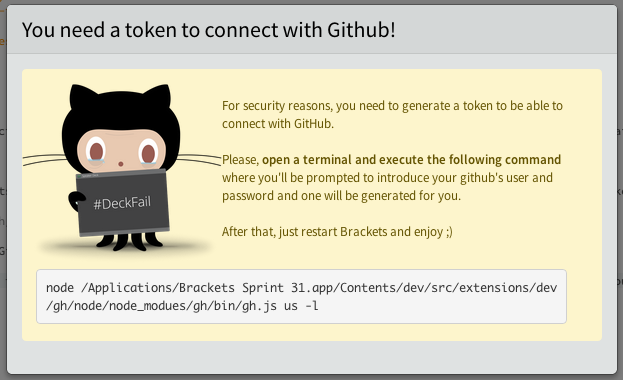
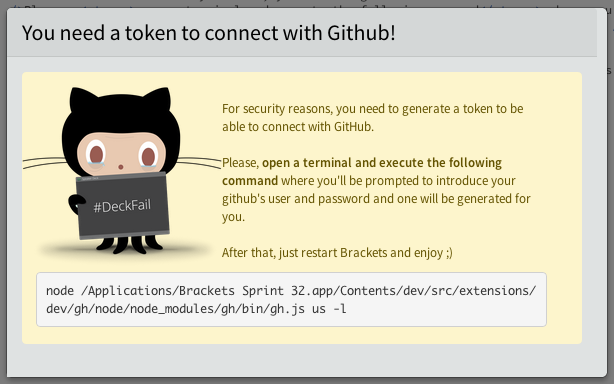
Fix command typo #13

diff --git a/htmlContent/error-token-not-found.html b/htmlContent/error-token-not-found.html
@@ -13,7 +13,7 @@
             <div style="margin-top: 20px;">
                 For security reasons, you need to generate a token to be able to connect with GitHub.<br /><br />Please, <strong>open a terminal and execute the following command</strong> where you'll be prompted to introduce your github's user and password and one will be generated for you.<br /><br />After that, just restart Brackets and enjoy ;)
             </div>
-            <pre style="clear: both;">node {{{path}}}node/node_modues/gh/bin/gh.js us -l</pre>
+            <pre style="clear: both;">node {{{path}}}node/node_modules/gh/bin/gh.js us -l</pre>
         </div>
     </div>
 </div>
